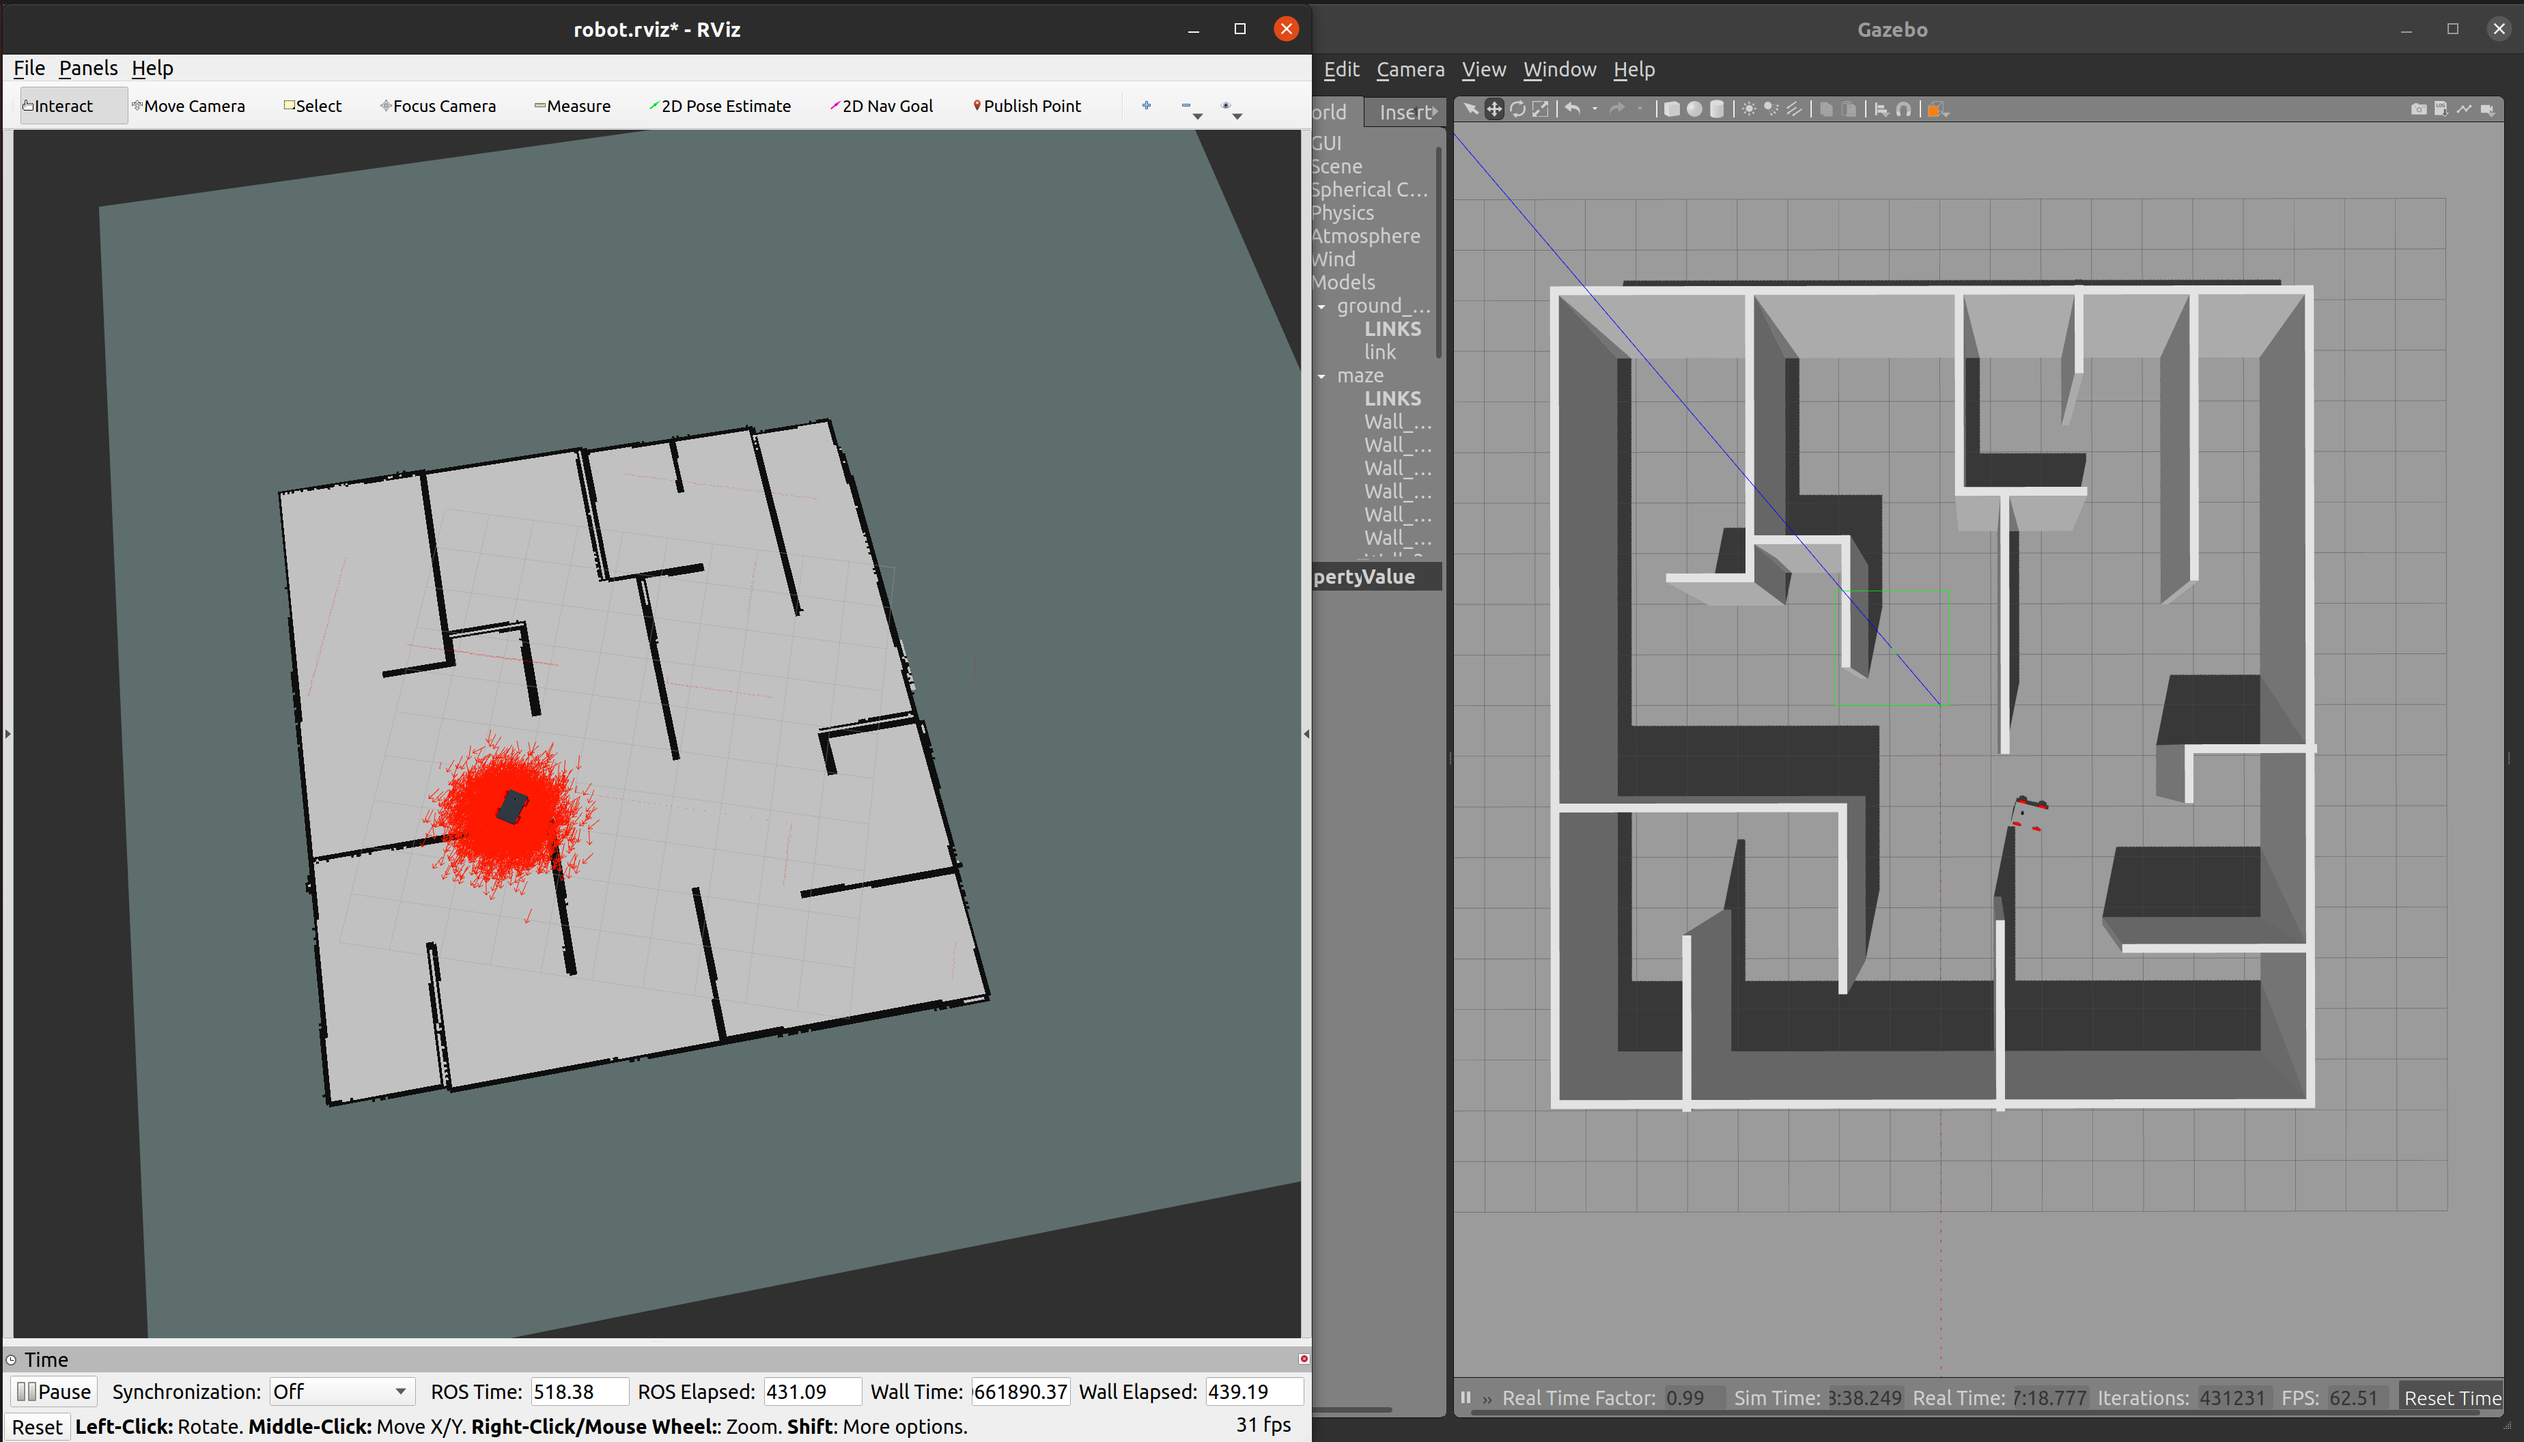
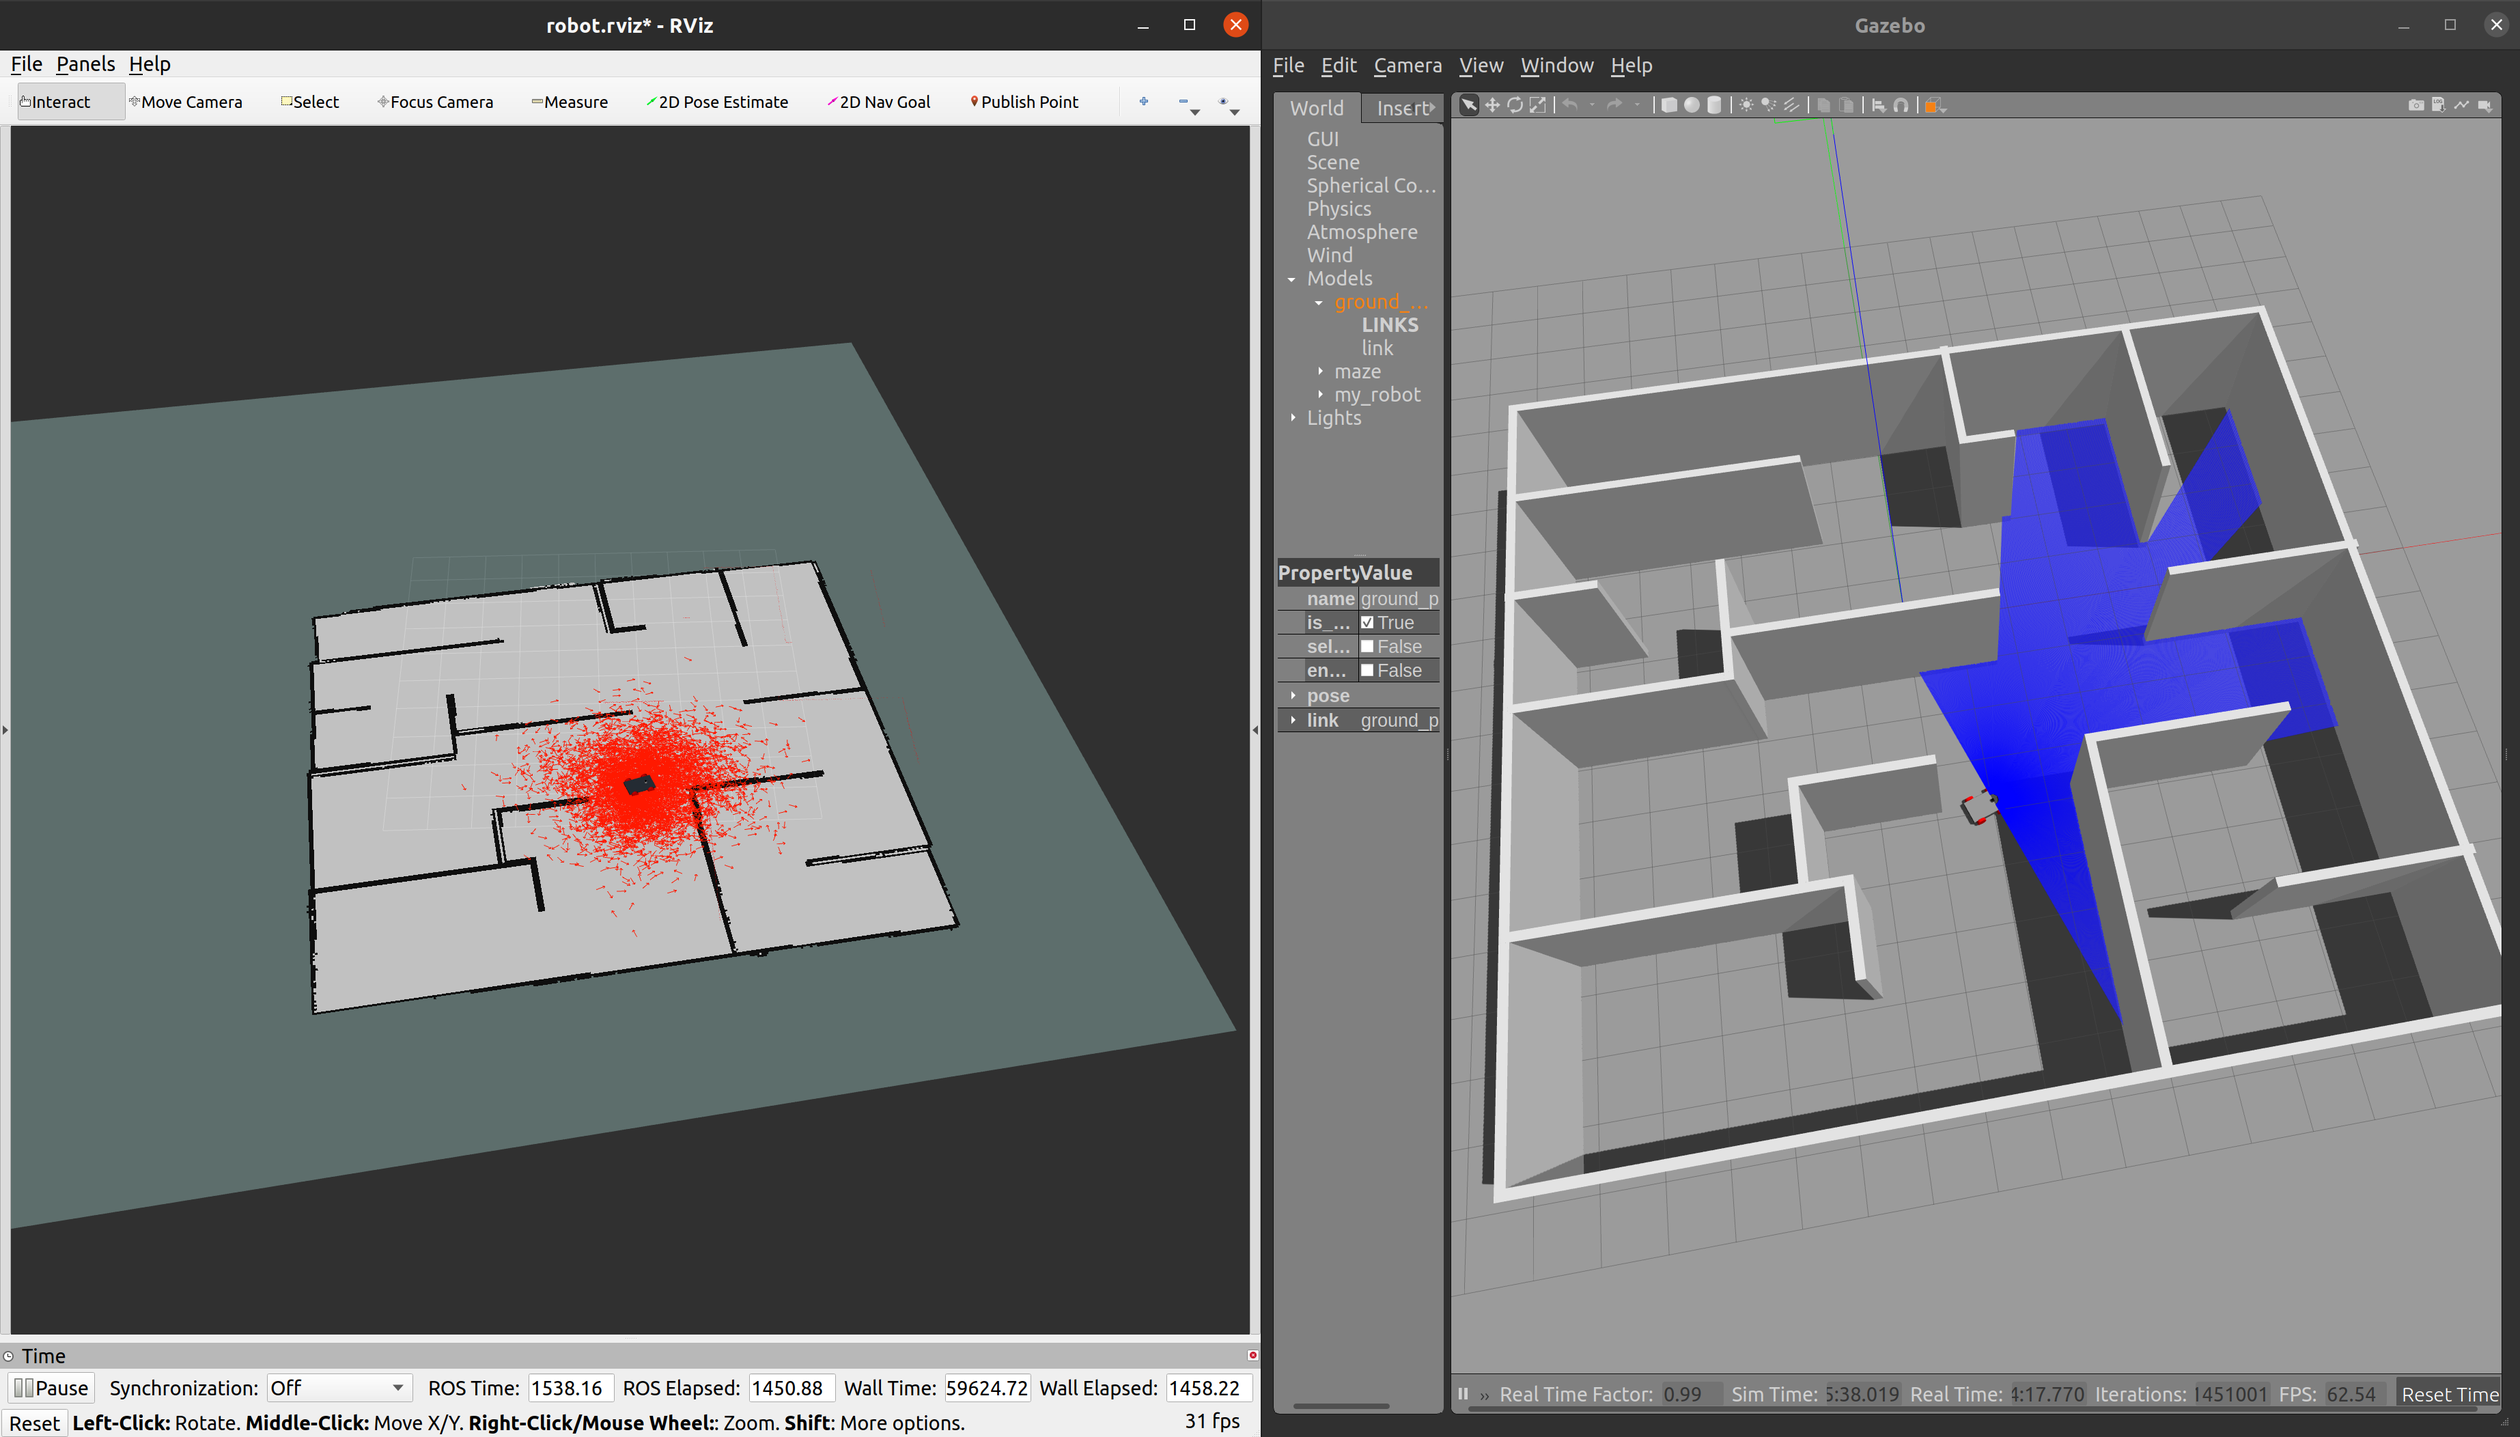
Your commit message

diff --git a/README.md b/README.md
@@ -1,0 +1,125 @@
+# Bot Workspace
+
+### Directory Structure
+
+    .bot_ws/
+    └── src/
+        └── my_robot/
+            ├── config/
+            │   └── robot.rviz
+            ├── images/
+            │   └── robot.png
+            │   └── world.png
+            │   └── mcl0.png
+            │   └── mcl1.png
+            │   └── mcl2.png
+            │   └── mcl3.png
+            ├── launch/
+            │   └── amcl.launch
+            │   └── gazebo.launch
+            │   └── world.launch
+            │   └── create_trajectory.launch
+            │   └── EKF.launch
+            │   └── robot_pose_ekf.launch
+            ├── materials/
+            │   └── textures/
+            │       └── realsense_diffuse.png
+            ├── maps/
+            │   └── map.pgm
+            │   └── map.yaml
+            ├── meshes/
+            │   ├── hokuyo.dae
+            │   └── realsense.dae
+            ├── src/
+            ├── urdf/
+            │   ├── colors.xacro
+            │   ├── my_robot.gazebo
+            │   └── myrobot.urdf.xacro
+            ├── worlds/
+            │   └── maze.world
+            ├── CMakeLists.txt
+            ├── package.xml
+            └── README.md
+
+# My Robot
+
+### Robot Model:
+![My Robot Image](./src/my_robot/images/robot.png)
+
+## Prerequisites
+
+- ROS Noetic
+- Gazebo
+- A ROS workspace
+
+## Installation
+
+1. Create a ROS workspace:
+    ```sh
+    mkdir myrobot_ws
+    cd myrobot_ws
+    ```
+
+2. Clone the repository into the `src` directory of your ROS workspace:
+    ```sh
+    mkdir src
+    cd src
+    git clone https://github.com/Ahmed-Magdi1/Where-Am-I.git
+    ```
+
+
+3. Build the package:
+    ```sh
+    cd ..
+    catkin_make
+    source devel/setup.bash
+    ```
+
+## Usage
+
+1. Launch the Gazebo simulation environment and rviz:
+    ```sh
+    roslaunch my_robot world.launch
+    ```
+
+2. Launch the amcl nodes:
+    ```sh
+    roslaunch my_robot amcl.launch
+    ```
+
+## Launch Files
+
+### gazebo.launch
+
+Launches the Gazebo simulation environment with the robot.
+
+### amcl.launch
+
+Launches the MCL nodes.
+
+### world.launch
+
+Launches the Gazebo simulation environment and rviz with the robot.
+
+## URDF Files
+
+### myrobot.urdf.xacro
+
+Contains the URDF model of the robot.
+
+### my_robot.gazebo
+
+Contains Gazebo-specific settings for the robot.
+
+### colors.xacro
+
+Contains color definitions for the robot.
+
+### Before the localization:
+![mcl](./src/my_robot/images/mcl0.png)
+
+### After the localization:
+![mcl](./src/my_robot/images/mcl1.png)
+![mcl](./src/my_robot/images/mcl2.png)
+
+
